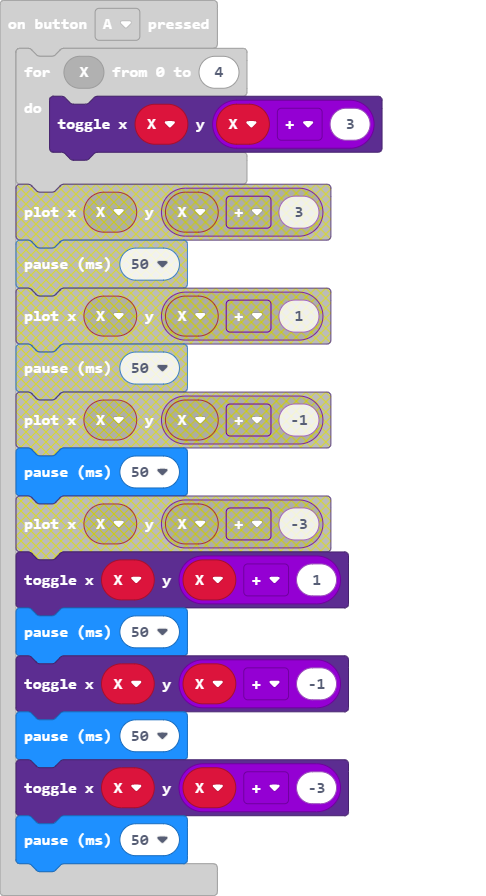
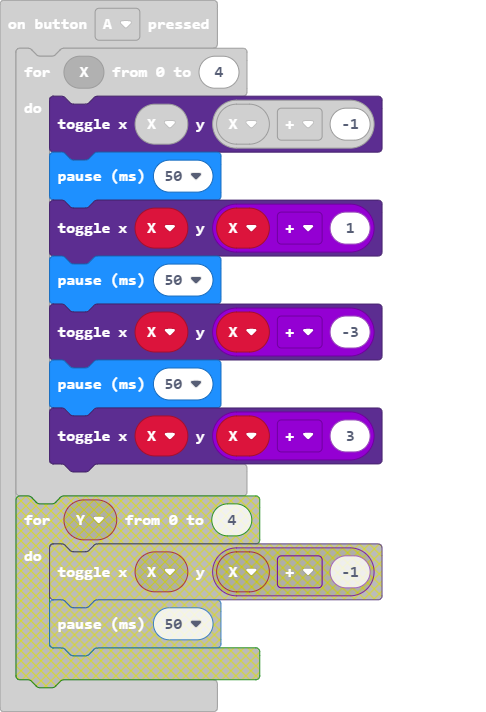
Update main.blocks, main.ts

diff --git a/main.ts b/main.ts
@@ -1,9 +1,12 @@
 input.onButtonPressed(Button.A, function () {
     for (let X = 0; X <= 4; X++) {
-        for (let Y = 0; Y <= 4; Y++) {
-            led.toggle(X, X + -1)
-            basic.pause(50)
-        }
+        led.toggle(X, X + -1)
+        basic.pause(50)
+        led.toggle(X, X + 1)
+        basic.pause(50)
+        led.toggle(X, X + -3)
+        basic.pause(50)
+        led.toggle(X, X + 3)
     }
 })
 basic.forever(function () {
